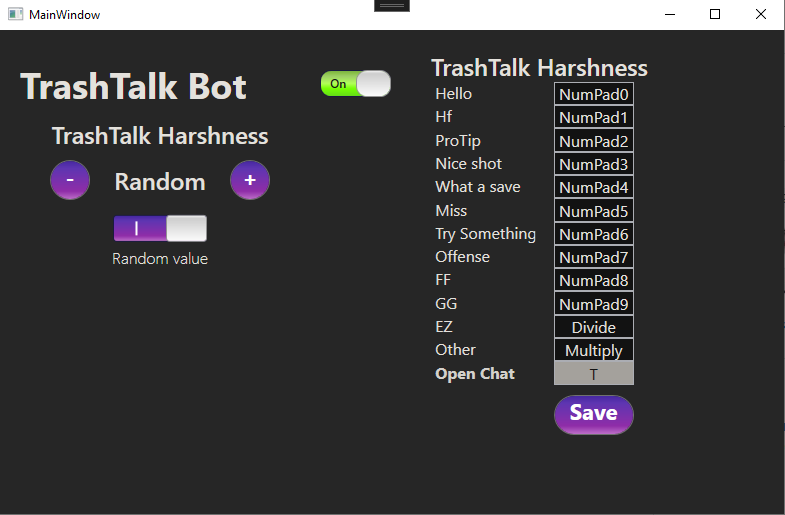
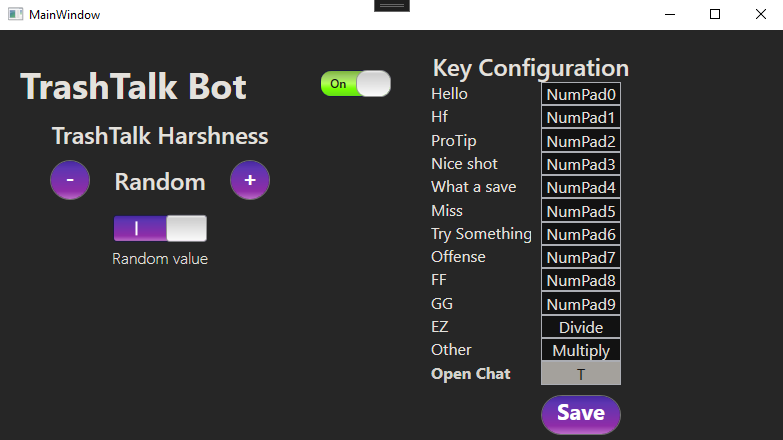
Title changed

diff --git a/TrashTalkBot/MainWindow.xaml b/TrashTalkBot/MainWindow.xaml
@@ -299,7 +299,7 @@
                 <RowDefinition Height="*"/>
             </Grid.RowDefinitions>
 
-            <TextBlock Grid.Column="0" Grid.Row="0" FontWeight="SemiBold" Text="TrashTalk Harshness" FontSize="24" Grid.ColumnSpan="3" TextAlignment="Center"/>
+            <TextBlock Grid.Column="0" Grid.Row="0" FontWeight="SemiBold" Text="Key Configuration" FontSize="24" Grid.ColumnSpan="3" TextAlignment="Center"/>
 
             <TextBlock Grid.Column="0" Grid.Row="1"  Width="100" Text="Hello"           FontSize="16" TextAlignment="Left" Foreground="{DynamicResource WhitePrimary}"/>
             <TextBlock Grid.Column="0" Grid.Row="2"  Width="100" Text="Hf"              FontSize="16" TextAlignment="Left" Foreground="{DynamicResource WhitePrimary}"/>
